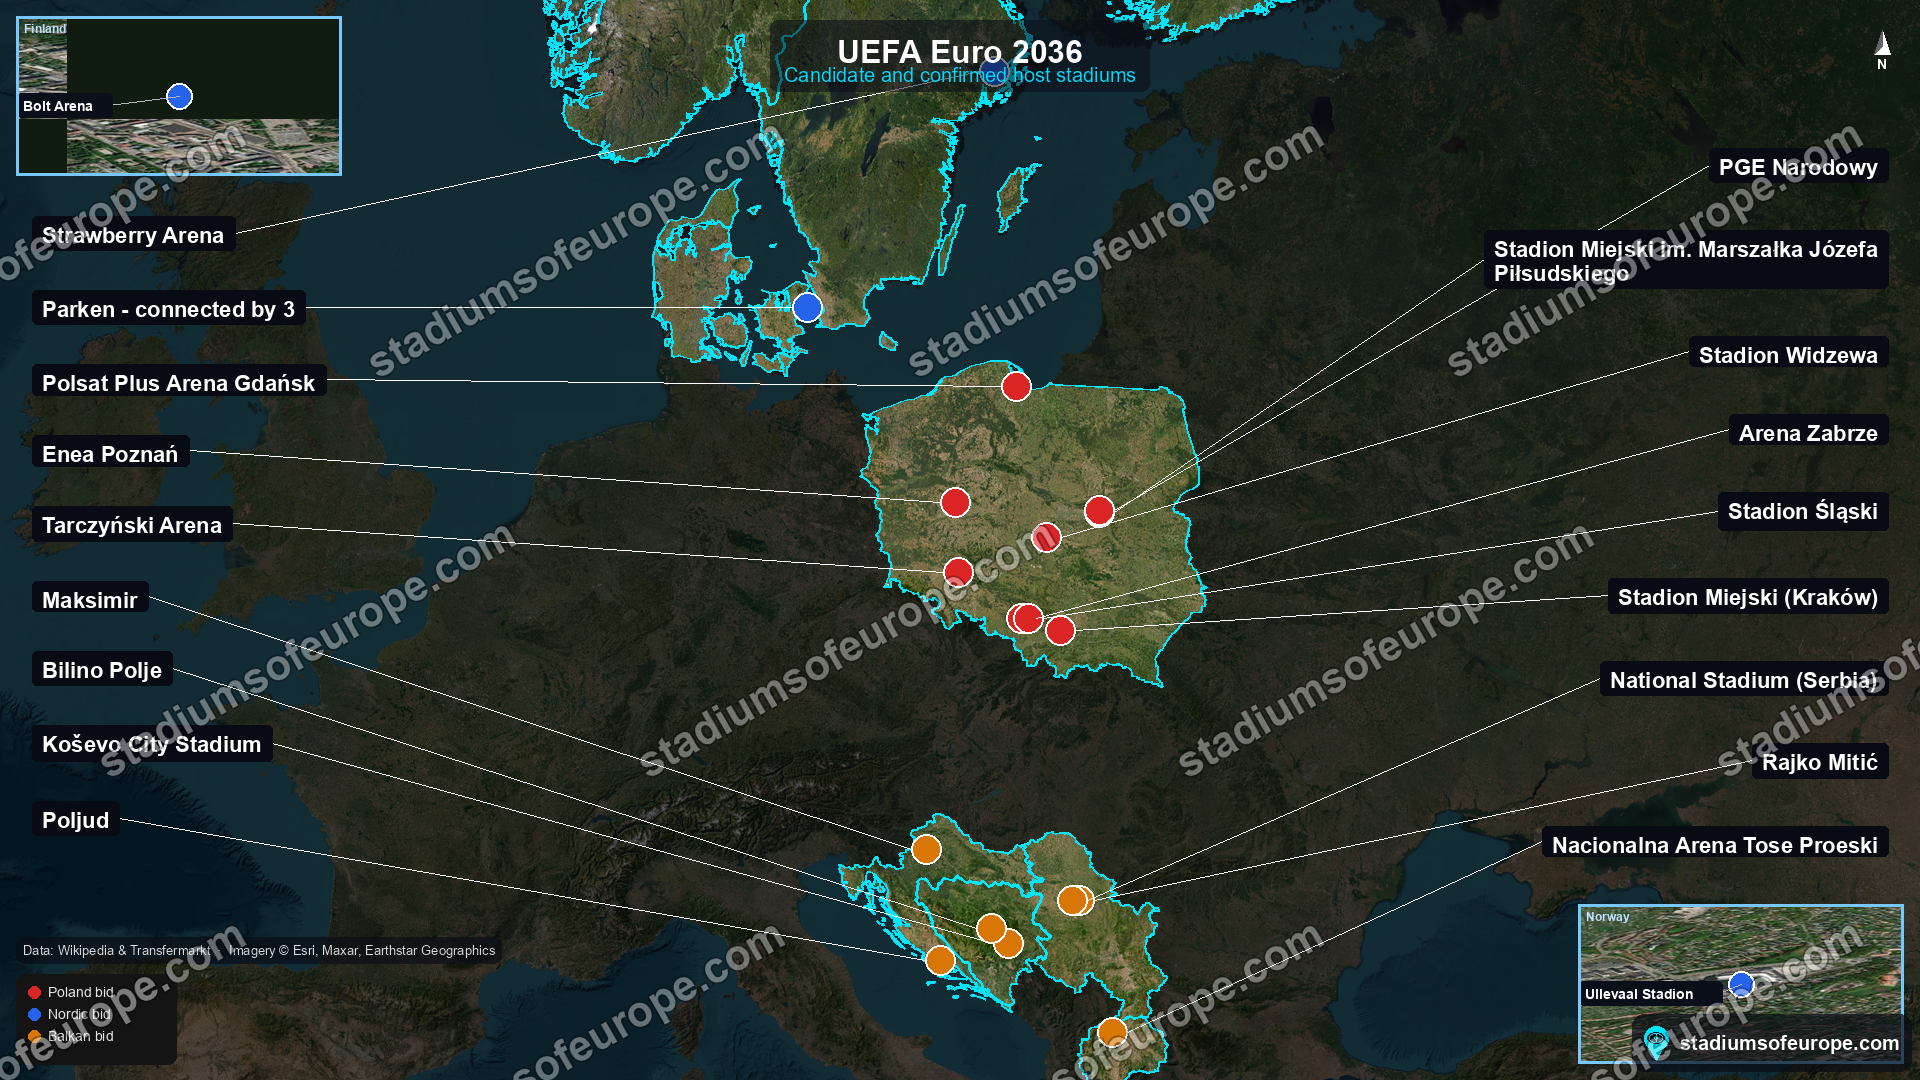
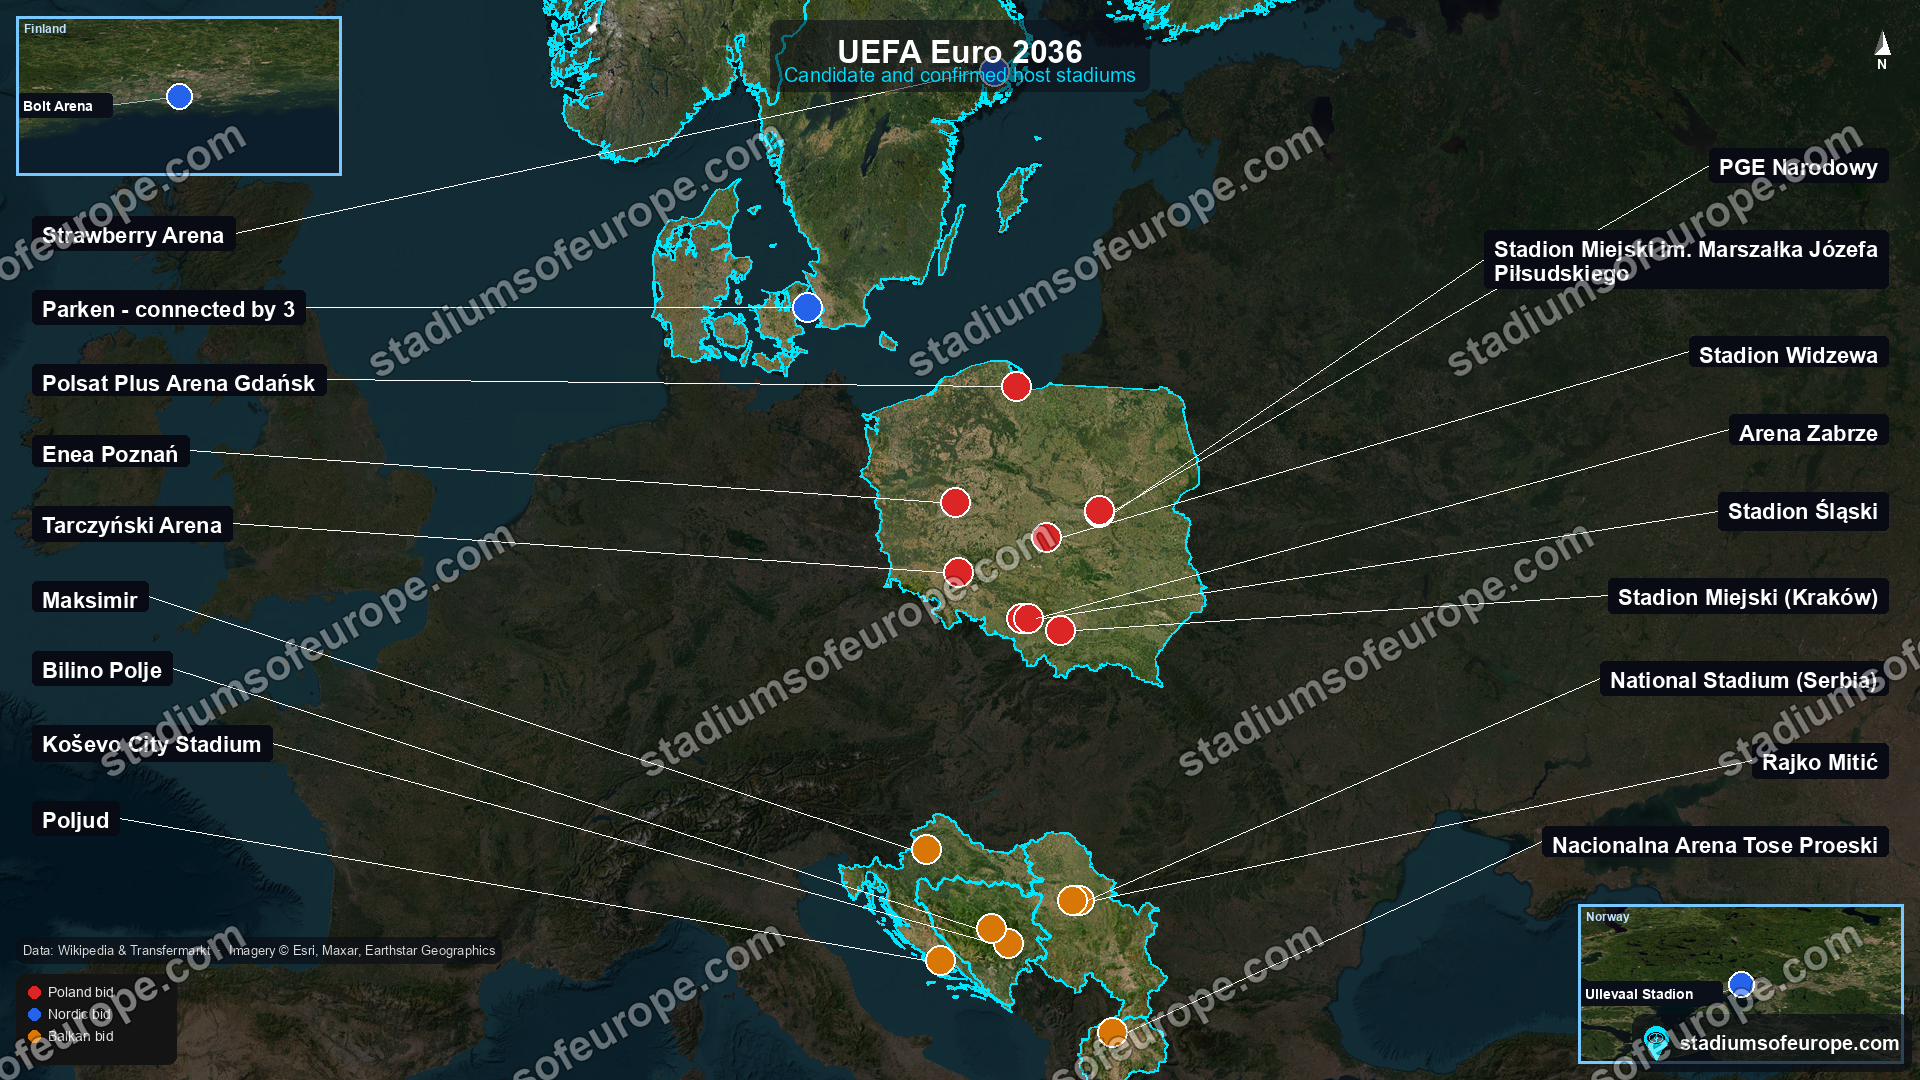
Frame island insets wide enough to show the island, and keep badges visible
Two fixes to the island boxes:

1. FRAMING. They inherited the magnifier's bbox padding (~900m floor), which is
   right for separating two grounds 300m apart and useless for an island: you saw
   terrain but no coastline, so the box gave no geographic context. _inset_layout
   now takes bbox_pad/bbox_floor and island groups use ~0.45 degrees (~50km each
   side), enough to show Madeira and Sao Miguel, both roughly 60km long.

2. BADGES. In a box this small the label columns unavoidably overlap the markers,
   and labels were drawn last so the badge ended up hidden - defeating the point
   of the box. Badges are now re-drawn on top: clipping a few characters of text
   is better than losing the ground itself.

Changed region(s): [[0.0, 0.0, 0.1875, 0.1833], [0.8125, 0.825, 1.0, 0.9778]]

diff --git a/italianstadia/italiastadiaapp/views.py b/italianstadia/italiastadiaapp/views.py
@@ -2792,14 +2792,15 @@ def _trimmed_bbox(stadiums, pad=0.06, qlon=0.02):
 
 
 def _inset_layout(inset_stadiums, W, H, main_bbox=None, reserves=None, zoom_bbox=None,
-                  width_frac=0.24):
+                  width_frac=0.24, bbox_pad=0.35, bbox_floor=0.008):
     """Pick the inset box geometry (size + emptiest corner) up front, so the main
     map's label engine can RESERVE it and never draw a label under the inset. When
     `zoom_bbox` is given (a user-drawn rectangle), that exact area is zoomed; else
     the area is derived tightly from the inset grounds."""
     margin = 16
     # The source rectangle: an explicit drawn box wins; else hug the grounds.
-    cluster_bbox = zoom_bbox or _inset_cluster_bbox(inset_stadiums)
+    cluster_bbox = zoom_bbox or _inset_cluster_bbox(inset_stadiums, pad=bbox_pad,
+                                                   floor=bbox_floor)
     # Match the inset box aspect to the drawn area so the zoom isn't distorted.
     aspect = ((cluster_bbox[2] - cluster_bbox[0]) /
               max(1e-6, _merc_y(cluster_bbox[1]) - _merc_y(cluster_bbox[3])) /
@@ -2932,6 +2933,21 @@ def _draw_inset(img, inset_stadiums, params, W, H, country_index, style_key,
             d.text((lx + 3, yy), it["l1"], font=font_t, fill=(170, 205, 255))
             yy += font_t.size + 2
         d.text((lx + 3, yy), it["l2"], font=font_s, fill=(255, 255, 255))
+
+    # Re-draw the badges ON TOP of the pills. In a box this small the label columns
+    # unavoidably run over the markers, and a hidden badge defeats the point of the
+    # box — better to clip a few characters of text than lose the ground itself.
+    for px, py, s_ in dots:
+        badge_img = badges.get(s_["name"])
+        d.ellipse([px-rr, py-rr, px+rr, py+rr], fill=(255, 255, 255))
+        if badge_img:
+            b = badge_img.resize((BR*2, BR*2), Image.LANCZOS)
+            mask = Image.new("L", (BR*2, BR*2), 0)
+            ImageDraw.Draw(mask).ellipse([0, 0, BR*2-1, BR*2-1], fill=255)
+            inset_img.paste(b, (px-BR, py-BR), mask)
+        else:
+            d.ellipse([px-BR, py-BR, px+BR, py+BR],
+                      fill=_dot_colour(s_, params, country_index))
 
     d.rectangle([(0, 0), (IW-1, IH-1)], outline=(120, 200, 255), width=3)
     try:
@@ -4311,9 +4327,13 @@ def _compose_export_image(params):
         _, island_groups = _outlier_island_groups(stadiums)
         for grp in island_groups:
             # Narrower than a magnifier inset: two of these plus the label columns
-            # have to share the frame.
+            # have to share the frame. Framed MUCH wider than a magnifier though —
+            # a magnifier wants to separate two grounds 300 m apart, whereas an
+            # island box is only useful if you can see the island's shape and place
+            # it geographically. The ~0.45 degree floor (~50 km each side) fits
+            # Madeira and Sao Miguel, both roughly 60 km long.
             lay = _inset_layout(grp, W, H, main_bbox=bbox, reserves=reserves,
-                                width_frac=0.17)
+                                width_frac=0.17, bbox_pad=1.2, bbox_floor=0.45)
             reserves.append(lay["box"])
             island_layouts.append((grp, lay))
     island_names = {s["name"] for grp, _ in island_layouts for s in grp}
